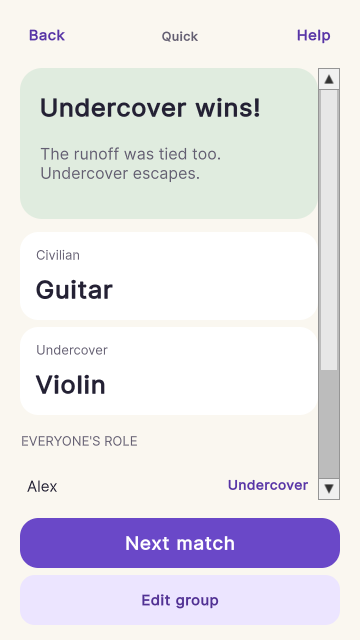
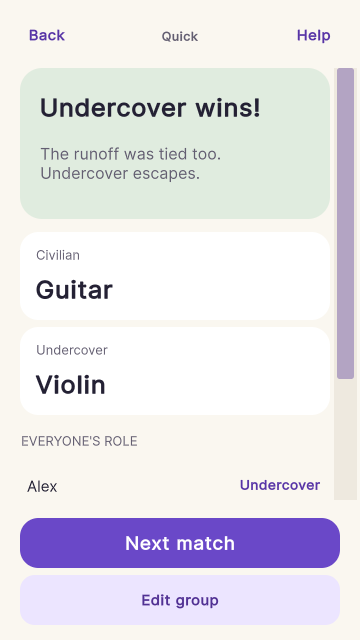
Record Quick Android build and final small-screen evidence

Changed region(s): [[0.6111, 0.0938, 1.0, 0.7812]]

diff --git a/docs/validation/quick-mode.md b/docs/validation/quick-mode.md
@@ -46,6 +46,6 @@ The English 360×640 walkthrough includes [24-character owner](images/quick/08-c
 
 ## Platform handoff and limits
 
-The Android development APK is built using the existing AppBuild entry, ARM64/IL2CPP, min API 26, target API 36, CleanBuildCache and the original application ID. No signing, Unity installation, global CLI configuration or other project was changed. Build summary, hash and actual size are recorded after completion in the adjacent evidence.
[1 lines of base64/hex data omitted]
 
 Root owns ADB/emulator-5580 and will test an update over the existing version-1 German/Classic group (eight active people, including Zoë), actual drag/hold/release/multitouch, Home/task preview/restart, system Back and secure screenshots. This implementation task does not claim those checks before they happen. Editor screenshots intentionally show fixture secrets; Android screen-capture protection is assessed separately. Physical-device usability, full TalkBack operation, large-catalog freshness, full Unicode font coverage and overall release readiness remain later release work. The known platform font gaps are tracked under issue 8, not concealed by Latin-only fixture success.
